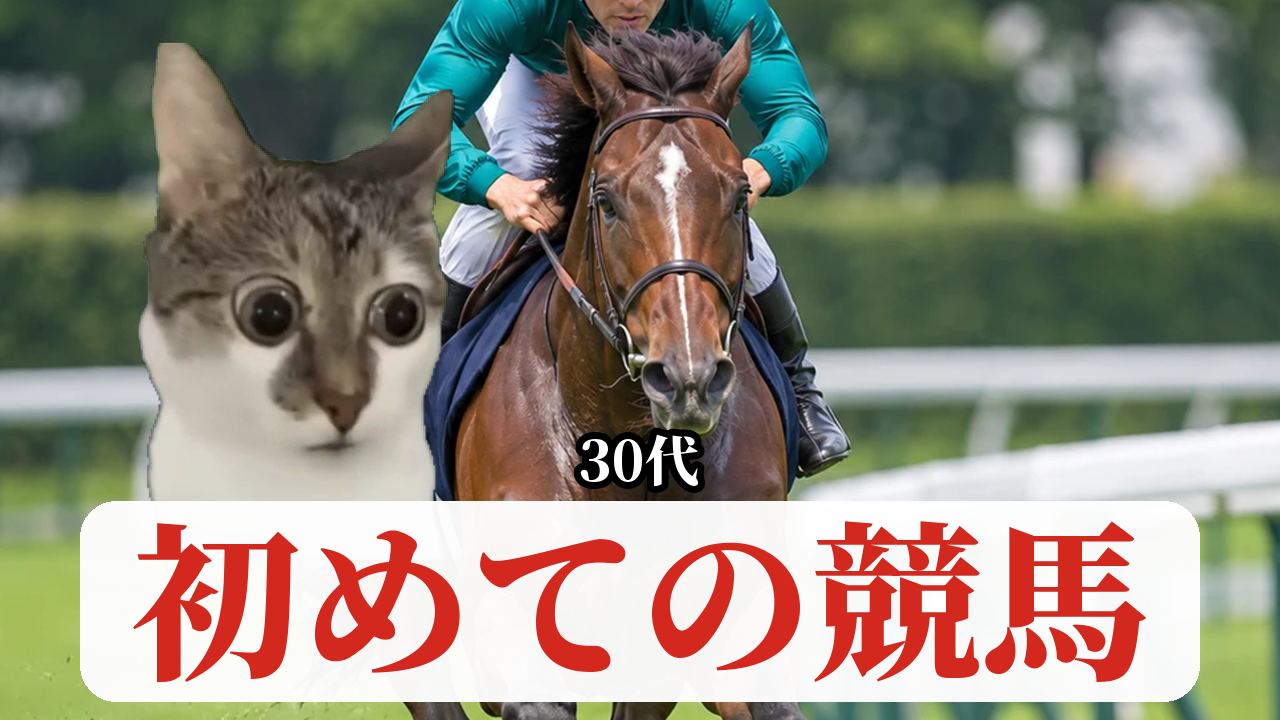
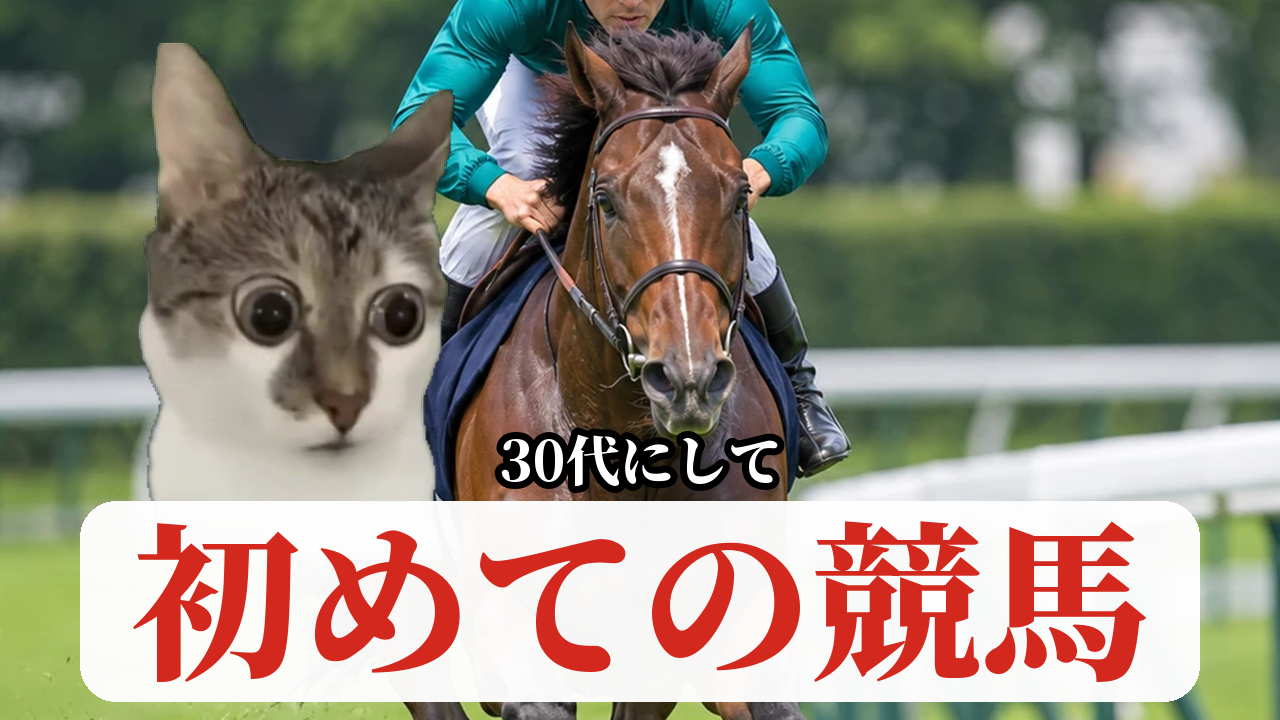
自堕落#22 競馬：サムネの小さい文字を「30代にして」に
Claude-Session: https://claude.ai/code/session_011g9CsrfFD5YswfNSvNDW39

Changed region(s): [[0.375, 0.5806, 0.625, 0.7028]]

diff --git a/catmeme/make_thumb_keiba.py b/catmeme/make_thumb_keiba.py
@@ -69,5 +69,5 @@ def full_set():
 
 
 def final():
-    """11/17 ユーザー指定：d1 をもとに小さい文字を「30代」に（帯は白・黄色はやめた）。"""
-    full("jidaraku_22_keiba_thumb_final.png", "stare_big_eyes_tabby_kitten", (210, 40, 30), small_text="30代")
+    """11/17 ユーザー指定：d1 をもとに小さい文字を「30代にして」に（帯は白・黄色はやめた）。"""
+    full("jidaraku_22_keiba_thumb_final.png", "stare_big_eyes_tabby_kitten", (210, 40, 30), small_text="30代にして")
